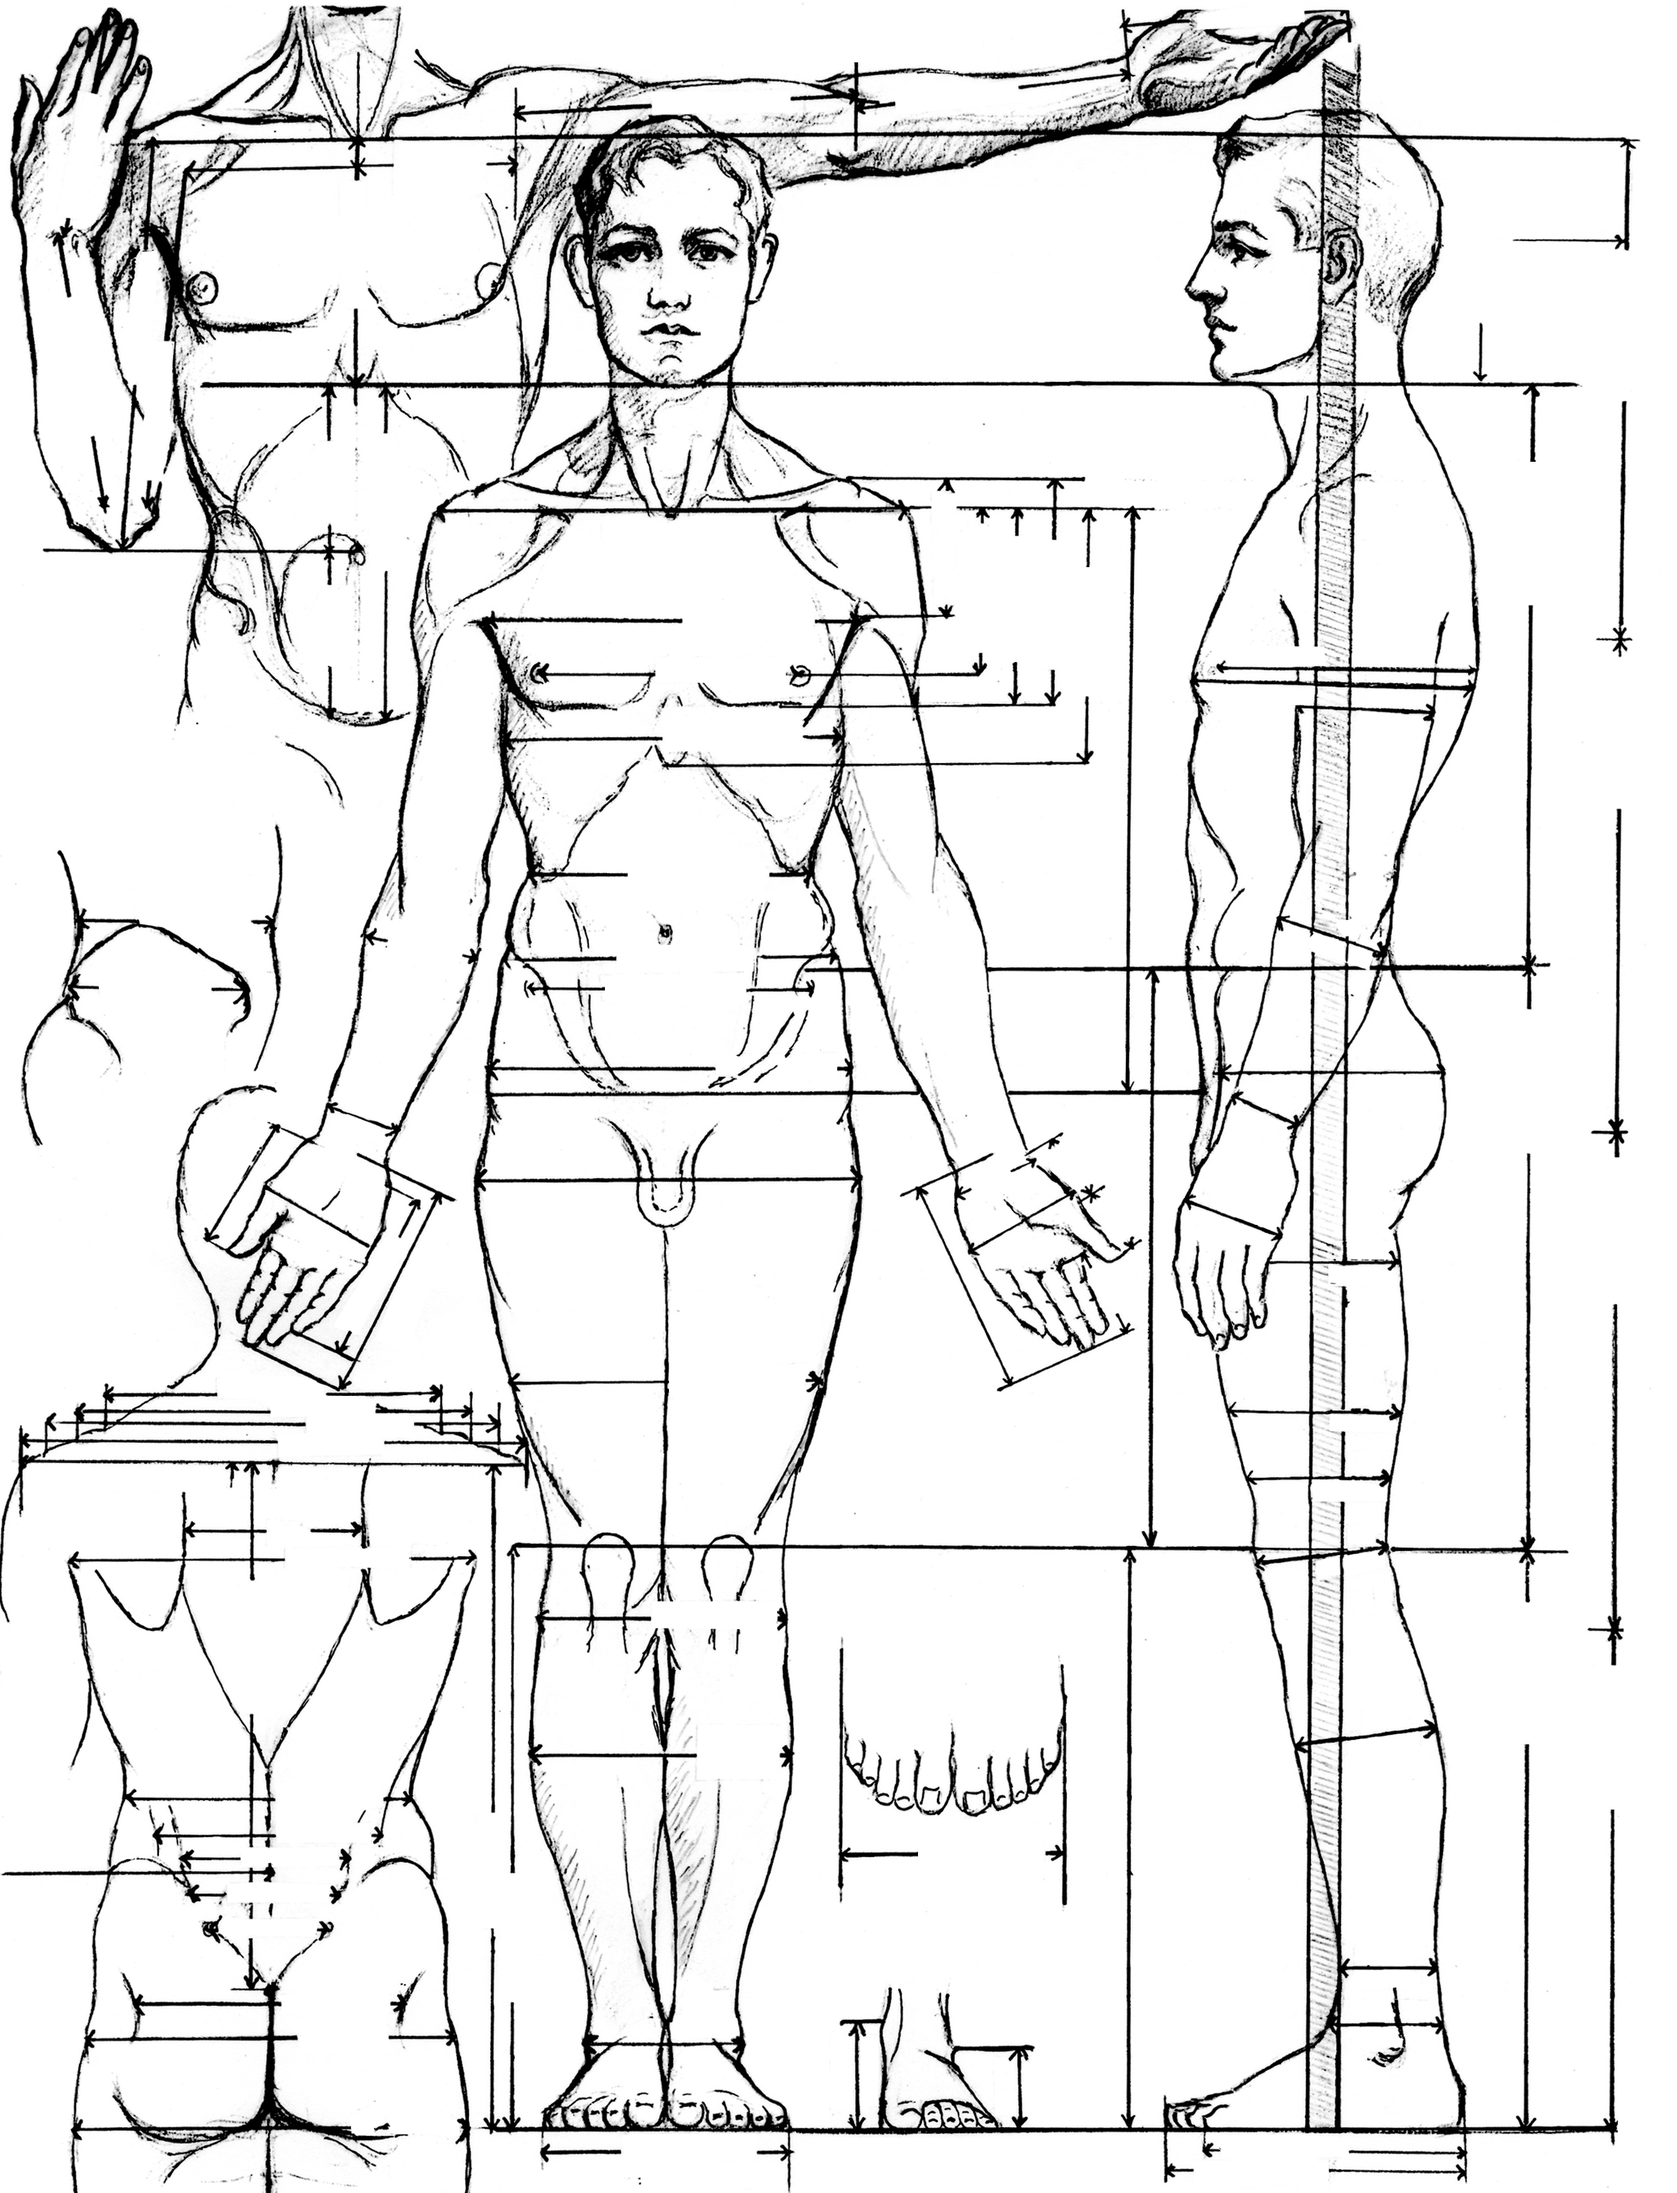
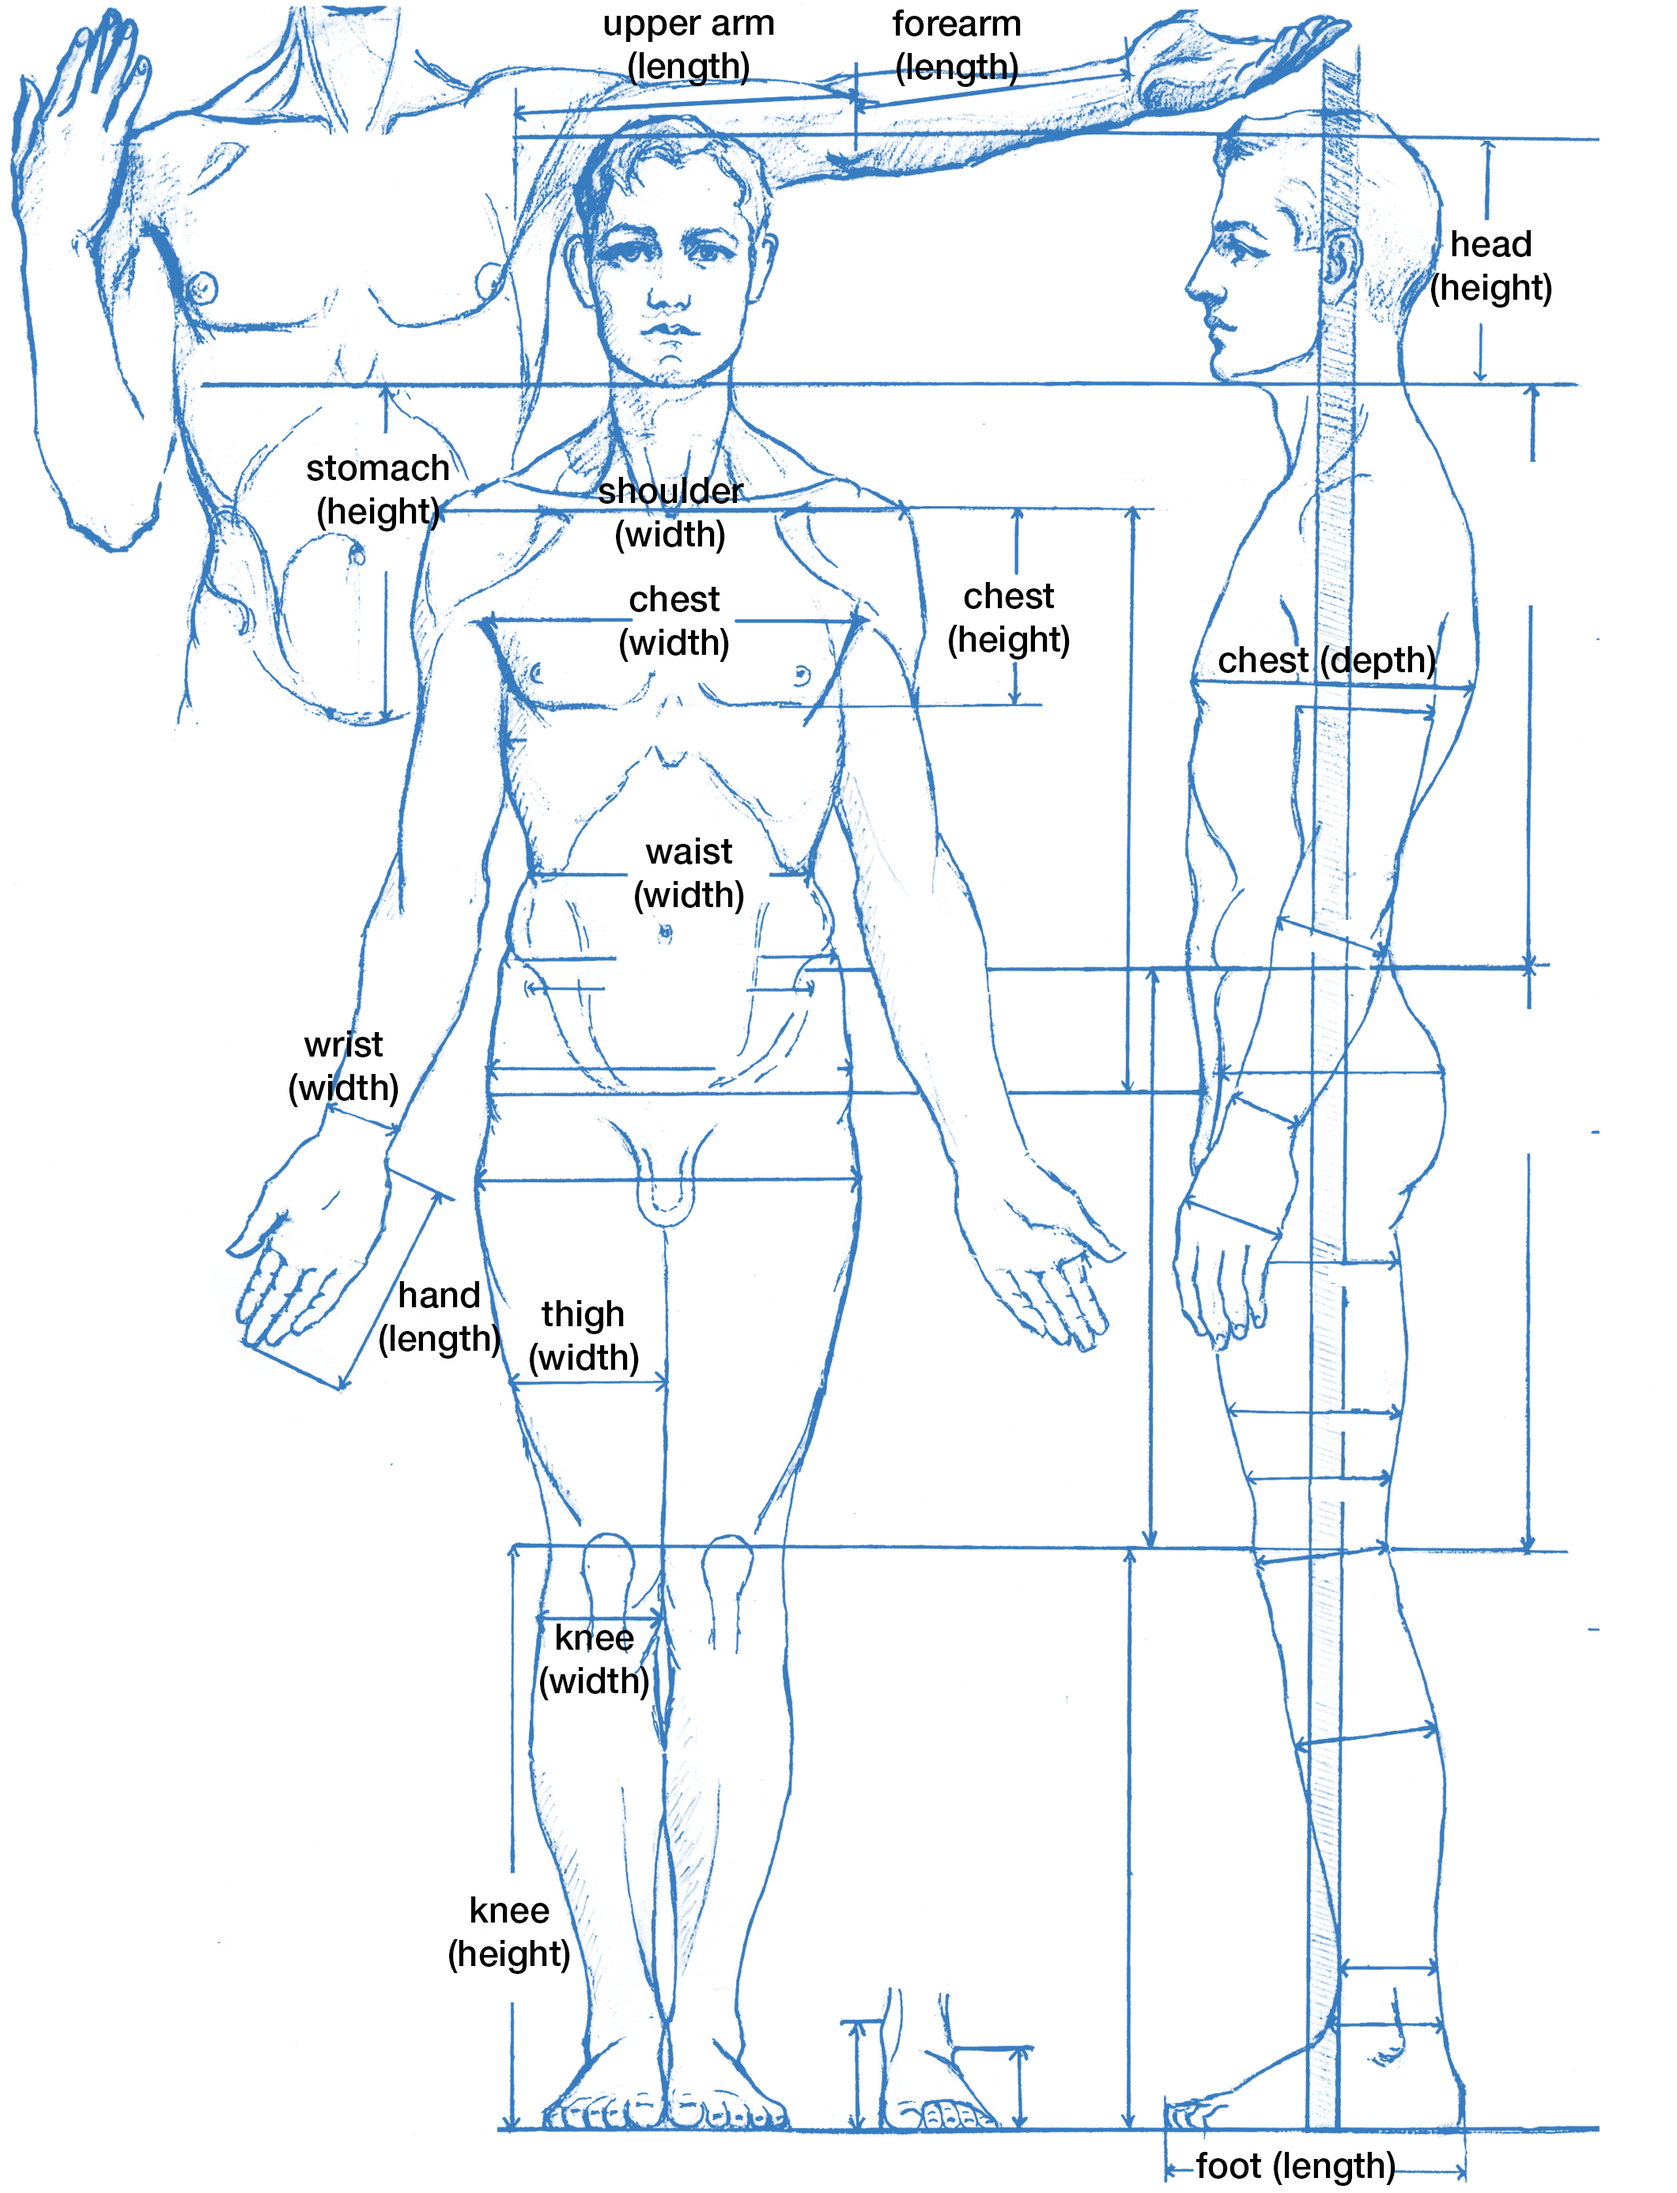
Fixes many mobile issues and adds blue images

diff --git a/calculator.html b/calculator.html
@@ -25,9 +25,9 @@
       </header>
       <main role="main" class="flex-shrink-0">
         <div class="container">
-          <div class="container m-3">
+          <div class="container ">
             <h4>About</h4>
-            <p>
+            <p class="text-justify">
               This is a tool for calculating the proportions of a giant of a given size. Note that all measurements are based on an idealized Caucasian male. This site is a work in progress! Please submit feedback to <a href="https://thundering-susurrus.tumblr.com/ask">thundering-susurrus</a>.
             </p>
             <h4>Instructions</h4>
@@ -37,120 +37,118 @@
               <li>The giant's computed weight will be displayed.</li>
               <li>Click between the tabs below to see sizes for specific body parts.</li>
             </ol>
+            <hr>
             <div class="row">
-              <div class="col-sm">
-                <h4>Human dimensions</h4>
-                <p>
-                  <input type="text" id="human_ft_input" value="6" />
-                  <label for="human_ft_input">ft</label>
-                </p>
-                <p>
-                  <input type="text" id="human_in_input" value="0" />
-                  <label for="in_input">in</label>
-                </p>
-                <p>
-                  <input type="text" id="lbs_input" value="200" />
-                  <label for="lbs_input">lbs</label>
-                </p>
+              <div class="col text-center">
+                <div>
+                  <h4>Human dimensions</h4>
+                  <p>
+                    <input type="text" id="human_ft_input" value="6" class="w-25"/>
+                    <label for="human_ft_input">ft</label>
+                    <input type="text" id="human_in_input" value="0" class="w-25"/>
+                    <label for="in_input">in</label>
+                  </p>
+                  <p>
+                    <input type="text" id="lbs_input" value="200"/>
+                    <label for="lbs_input">lbs</label>
+                  </p>
+                </div>
               </div>
-              <div class="col-sm">
-                <h4>Giant dimensions</h4>
-                <p>
-                  <input type="text" id="giant_ft_input" value="60" />
-                  <label for="ft_input">ft</label>
-                </p>
-                <p>
-                  <input type="text" id="giant_in_input" value="0" />
-                  <label for="in_input">in</label>
-                </p>
-                <p>
-                  <input type="text" disabled="disabled" id="giant_lbs" value="200000"/>
-                  <label for="giant_lbs">lbs</label>
-                </p>
+              <div class="col text-center">
+                <div>
+                  <h4>Giant dimensions</h4>
+                  <p>
+                    <input type="text" id="giant_ft_input" value="60" class="w-25"/>
+                    <label for="ft_input">ft</label>
+                    <input type="text" id="giant_in_input" value="0" class="w-25"/>
+                    <label for="in_input">in</label>
+                  </p>
+                  <p>
+                    <input type="text" disabled="disabled" id="giant_lbs" value="200000"/>
+                    <label for="giant_lbs">lbs</label>
+                  </p>
+                </div>
               </div>
             </div>
+            <hr>
           </div>
-          <div class="container m-3">
-            <div class="row">
-              <div class="col-sm">
-                <div class="bs-component">
-                  <ul class="nav nav-tabs">
-                    <li class="nav-item">
-                      <a class="nav-link active" data-toggle="tab" href="#hand_dimensions">Hand</a>
-                    </li>
-                    <li class="nav-item">
-                      <a class="nav-link" data-toggle="tab" href="#facial_features">Facial Features</a>
-                    </li>
-                    <li class="nav-item">
-                      <a class="nav-link" data-toggle="tab" href="#lengths">General</a>
-                    </li>
-                  </ul>
-                  <div id="myTabContent" class="tab-content">
-                    <div class="tab-pane fade" id="lengths">
-                      <div class="row">
-                        <div class="col-sm tableFixHead">
-                          <table class="table table-hover" style="table-layout:fixed;">
-                            <thead>
-                              <tr>
-                                <th>body part</th>
-                                <th>size</th>
-                              </tr>
-                            </thead>
-                            <tbody id="body_parts_table" >
-                            </tbody>
-                          </table>
-                        </div>
-                        <div class="col-sm">
-                          <img src="calculator/male.png" class="d-block mx-auto" alt="a drawing of a man with various proportions labelled">
-                        </div>
-                      </div>
+          <div class="container">
+            <div class="bs-component">
+              <ul class="nav nav-tabs">
+                <li class="nav-item">
+                  <a class="nav-link active" data-toggle="tab" href="#hand_dimensions">Hand</a>
+                </li>
+                <li class="nav-item">
+                  <a class="nav-link" data-toggle="tab" href="#facial_features">Face</a>
+                </li>
+                <li class="nav-item">
+                  <a class="nav-link" data-toggle="tab" href="#lengths">Body</a>
+                </li>
+              </ul>
+              <div id="myTabContent" class="tab-content">
+                <div class="tab-pane fade" id="lengths">
+                  <div class="row d-flex flex-wrap align-items-center">
+                    <div class="col-12 col-md-6 tableFixHead">
+                      <table class="table table-hover" style="table-layout:fixed;">
+                        <thead>
+                          <tr>
+                            <th>body part</th>
+                            <th>size</th>
+                          </tr>
+                        </thead>
+                        <tbody id="body_parts_table" >
+                        </tbody>
+                      </table>
                     </div>
-                    <div class="tab-pane fade" id="facial_features">
-                      <div class="row">
-                        <div class="col-sm tableFixHead">
-                          <table class="table table-hover" style="table-layout:fixed;">
-                            <thead>
-                              <tr>
-                                <th>body part</th>
-                                <th>size</th>
-                              </tr>
-                            </thead>
-                            <tbody id="facial_features_table" >
-                            </tbody>
-                          </table>
-                        </div>
-                        <div class="col-sm">
-                          <img src="calculator/male_face.png" class="d-block mx-auto" alt="a drawing of a man's face with various proportions labeled">
-                        </div>
-                      </div>
+                    <div class="col-12 col-md-6">
+                      <img src="calculator/male.png" class="d-block mx-auto img-fluid" alt="a drawing of a man with various proportions labelled">
                     </div>
-                    <div class="tab-pane fade active show" id="hand_dimensions">
-                      <div class="row">
-                        <div class="col-sm tableFixHead">
-                          <table class="table table-hover" style="table-layout:fixed;">
-                            <thead>
-                              <tr>
-                                <th>body part</th>
-                                <th>size</th>
-                              </tr>
-                            </thead>
-                            <tbody id="hand_features_table" >
-                            </tbody>
-                          </table>
-                        </div>
-                        <div class="col-sm">
-                          <img src="calculator/vectorized_hand.png" class="d-block mx-auto" alt="a diagram of a hand with various proportions labeled">
-                        </div>
-                      </div>
+                  </div>
+                </div>
+                <div class="tab-pane fade" id="facial_features">
+                  <div class="row d-flex flex-wrap align-items-center">
+                    <div class="col-12 col-md-6 tableFixHead">
+                      <table class="table table-hover" style="table-layout:fixed;">
+                        <thead>
+                          <tr>
+                            <th>body part</th>
+                            <th>size</th>
+                          </tr>
+                        </thead>
+                        <tbody id="facial_features_table" >
+                        </tbody>
+                      </table>
+                    </div>
+                    <div class="col-12 col-md-6">
+                      <img src="calculator/male_face.png" class="d-block mx-auto img-fluid" alt="a drawing of a man's face with various proportions labeled">
+                    </div>
+                  </div>
+                </div>
+                <div class="tab-pane fade active show" id="hand_dimensions">
+                  <div class="row d-flex flex-wrap align-items-center">
+                    <div class="col-12 col-md-6 tableFixHead">
+                      <table class="table table-hover" style="table-layout:fixed;">
+                        <thead>
+                          <tr>
+                            <th>body part</th>
+                            <th>size</th>
+                          </tr>
+                        </thead>
+                        <tbody id="hand_features_table" >
+                        </tbody>
+                      </table>
+                    </div>
+                    <div class="col-12 col-md-6">
+                      <img src="calculator/vectorized_hand.png" class="d-block mx-auto img-fluid" alt="a diagram of a hand with various proportions labeled">
                     </div>
                   </div>
                 </div>
               </div>
             </div>
           </div>
-          </br>
-          <div class="container m-3">
-            <p><small>Illustrations and measurements taken from <i>Human Proportions for Artists</i> by Avard T. Fairbanks and Eugene F. Fairbanks and reproduced under the <a href="https://creativecommons.org/licenses/by-sa/4.0/deed.en">Creative Commons Attribution-Share Alike 4.0 International license</a>. This page adheres to the same license. Hand data adapted from <i><a href="https://www.researchgate.net/publication/264663607_A_Survey_of_Hand_Anthropometry_and_Biomechanical_Measurements_of_Dentistry_Students_in_Turkey">A Survey of Hand Anthropometry and Biomechanical Measurements of Dentistry Students in Turkey</a></i></small></p>
+          <hr>
+          <div class="container text-justify">
+            <p><small>Illustrations and measurements taken from <i>Human Proportions for Artists</i> by Avard T. Fairbanks and Eugene F. Fairbanks and reproduced under the <a href="https://creativecommons.org/licenses/by-sa/4.0/deed.en">Creative Commons Attribution-Share Alike 4.0 International license</a>. This page adheres to the same license. Hand data adapted from <i><a href="https://www.researchgate.net/publication/264663607_A_Survey_of_Hand_Anthropometry_and_Biomechanical_Measurements_of_Dentistry_Students_in_Turkey">A Survey of Hand Anthropometry and Biomechanical Measurements of Dentistry Students in Turkey</a></i>.</small></p>
           </div>
         </div>
       </main>

diff --git a/calculator/calculator.css b/calculator/calculator.css
@@ -45,5 +45,4 @@ th, td { padding: 8px 16px; }
 th     { background:#fff; }
 
 #wrapper {
-	overflow-x:hidden
-}
+	overflow-x:hidden}
